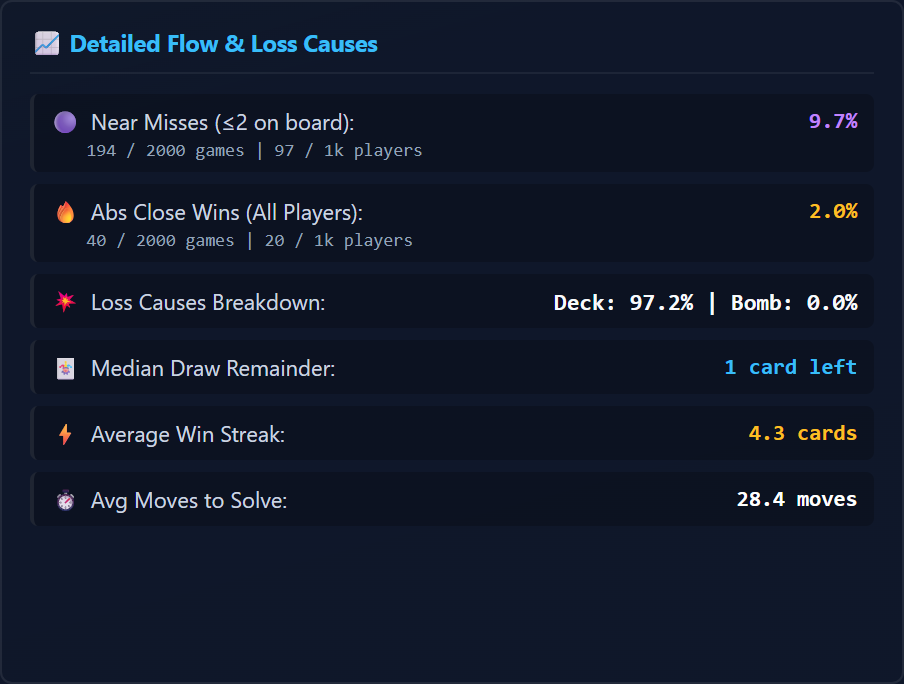
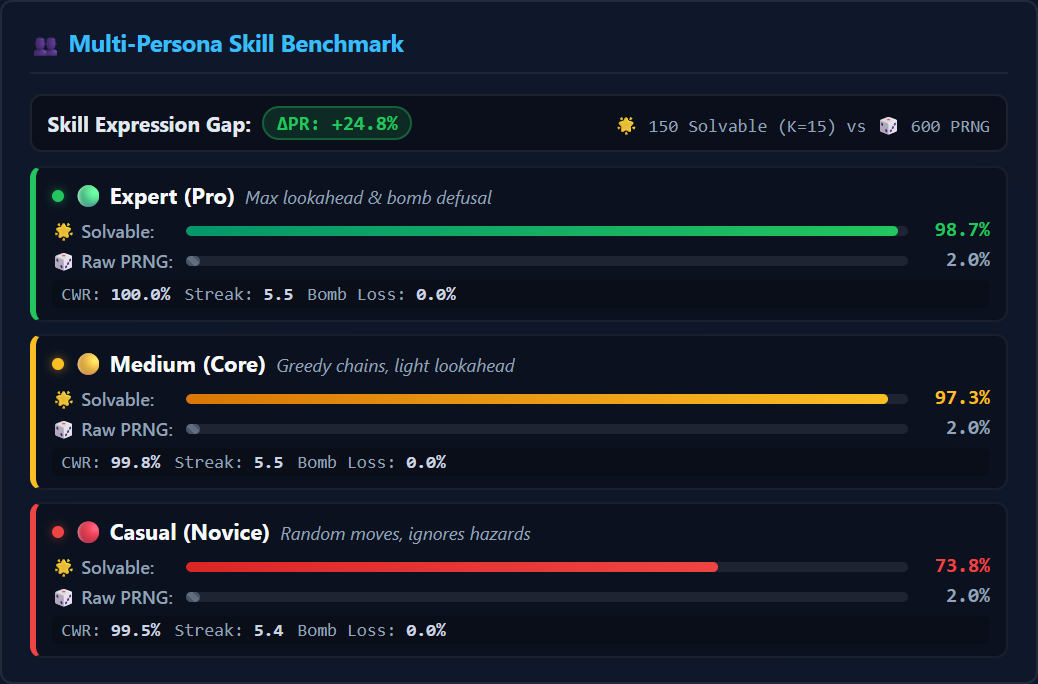
docs: fix screenshots, add detailed flow breakdown and accurate manual simulation drawer

diff --git a/README.md b/README.md
@@ -6,19 +6,13 @@
 
 ---
 
-## ⚡ Quick Start: How to Open the Tuner
+## ⚡ Quick Start: Switching to the Difficulty Tuner
 
-When you open the web application, it starts in the **🎮 Playable Prototype** view. 
+The web application opens by default in the **🎮 Playable Prototype** view.
 
-To access the balancing suite, click the **📊 Difficulty Tuner & Monte Carlo** tab in the top navigation bar:
+To switch to the balancing and simulation workbench, click the **📊 Difficulty Tuner & Monte Carlo** tab in the top navigation bar:
 
-```
-+-------------------------------------------------------------------------------------------------------+
-| SOFTGAMES  Operation Close Win   [ 🎮 Playable Prototype ] [ 📊 Difficulty Tuner & Monte Carlo ] <-- CLICK HERE
-+-------------------------------------------------------------------------------------------------------+
-```
-
-![Top Navigation & Prototype Overview](./docs/images/01_game_prototype_overview.png)
+![Top Navigation Tab Switcher](./docs/images/01_top_nav_switcher.png)
 
 ---
 
@@ -26,13 +20,12 @@ To access the balancing suite, click the **📊 Difficulty Tuner & Monte Carlo**
 
 The Difficulty Tuner runs large-scale Monte Carlo simulations ($N=2,000$ runs per level in background Web Workers) to auto-calibrate deck sizes for a **70% Close Win Rate (CWR)**, benchmark player personas, and isolate winnable **Golden Seeds**.
 
-![Difficulty Tuner Overview](./docs/images/04_difficulty_tuner_full.png)
+![Difficulty Tuner Overview](./docs/images/03_difficulty_tuner_overview.png)
 
 ### 1.1 Top Controls Bar
 
-At the top of the Tuner card:
 - **Level Select Dropdown:** Switch between presets (`level_25`, `level_31`, `level_43`, `level_54`) or uploaded custom levels.
-- **📂 Upload JSON:** Load custom level JSON files. They are automatically parsed and saved to browser `localStorage`.
+- **📂 Upload JSON:** Load custom level JSON files directly from your disk (saved to browser `localStorage`).
 - **🚀 Run Analysis:** Runs the full $N=2,000$ simulation batch to recalculate all stats.
 - **🎮 Apply & Play:** Applies the calibrated deck size and switches directly to the playable game.
 - **💾 Download JSON:** Exports the calibrated level file with the new deck size and mined golden seeds.
@@ -41,7 +34,7 @@ At the top of the Tuner card:
 
 ### 1.2 Hero KPI Ribbon (Executive Metrics)
 
-![Hero KPIs](./docs/images/05_hero_kpis_ribbon.png)
+![Hero KPIs](./docs/images/04_hero_kpis_ribbon.png)
 
 | Metric | Meaning & Target |
 | :--- | :--- |
@@ -54,15 +47,33 @@ At the top of the Tuner card:
 
 ### 1.3 Deep Dive Panels
 
-![Panels](./docs/images/06_dual_donut_charts.png)
-
 #### A. Visual Cohort Funnels (Dual Donut Charts)
+
+![Dual Donut Funnels](./docs/images/05_dual_donut_funnels.png)
+
 - **Random Deals Funnel (Left):** Shows total conversion of random PRNG deals into Close Wins (🟢), Standard Wins (🔵), and Losses (🔴).
 - **Golden Seeds Funnel (Right):** Shows the conversion of curated winnable seeds, proving 100% completion without unwinnable card starvation.
 
-#### B. Multi-Persona Benchmark (Skill Expression)
+---
 
-![Multi-Persona](./docs/images/07_multi_persona_benchmark.png)
+#### B. Detailed Flow & Loss Causes
+
+![Detailed Flow & Loss Causes](./docs/images/06_detailed_flow_and_losses.png)
+
+| Metric | Meaning |
+| :--- | :--- |
+| **Near Misses ($\le 2$ on board)** | Percentage of losses where only 1–2 cards remained on the board. This is the prime driver for high-intent retries and extra card purchases. |
+| **Abs Close Wins (All Players)** | Absolute close win percentage across the entire player population. |
+| **Loss Causes Breakdown** | Shows whether losses occurred due to running out of draw cards (`Deck %`) or failing a hazard (`Bomb %`). |
+| **Median Draw Remainder** | Median number of unused cards in the draw pile upon winning (Target: $\le 2$ cards). |
+| **Average Win Streak** | Average number of consecutive tableau cards cleared without drawing from the stock. |
+| **Avg Moves to Solve** | Average number of card operations required to complete the board. |
+
+---
+
+#### C. Multi-Persona Skill Benchmark (Skill Expression)
+
+![Multi-Persona Benchmark](./docs/images/07_multi_persona_benchmark.png)
 
 Measures win rates across 3 simulated player skill levels ($6 \times 600$ runs):
 - 🟢 **Pro / Expert ($\epsilon = 0\%$ error):** Optimal lookahead and modifier prioritization.
@@ -74,13 +85,13 @@ Measures win rates across 3 simulated player skill levels ($6 \times 600$ runs):
 
 ### 1.4 Manual Simulation & Custom Deck Testing Drawer
 
-Below the main card, click **`▼ Expand Manual Testing`** to open the interactive custom deck sandbox:
+Click **`▼ Expand Manual Testing`** below the main card to open the custom deck sandbox:
 
-![Manual Workbench](./docs/images/08_manual_simulation_workbench.png)
+![Manual Simulation Drawer](./docs/images/08_manual_simulation_drawer.png)
 
 1. **Adjust Hand Size:** Use the **`[ − ]`** and **`[ + ]`** stepper buttons or type a number directly into the deck input.
 2. **Click `▶ Run Simulation`:** Runs a full Monte Carlo evaluation on your custom hand size.
-3. **Compare Results:** The card displays complete 1:1 parity metrics (Hero KPIs, Donut charts, Personas, Flow breakdown) for your custom hand size.
+3. **Compare Results:** Displays full 1:1 parity metrics (Hero KPIs, Donut charts, Personas, Flow breakdown) for your custom hand size.
 4. **Click `🎮 Apply & Play Custom Deck`:** Loads this custom deck size directly into the playable game canvas.
 5. **Click `💾 Export JSON`:** Saves the custom level JSON to your disk.
 
@@ -88,9 +99,9 @@ Below the main card, click **`▼ Expand Manual Testing`** to open the interacti
 
 ## 2. Module 1: Playable Prototype (Game Verification)
 
-To test the tactile game feel and verify card interactions manually, switch back to **🎮 Playable Prototype**:
+To test the tactile game feel and verify card interactions manually, switch to **🎮 Playable Prototype**:
 
-![Playable Prototype](./docs/images/03_tripeaks_board_canvas.png)
+![Playable Prototype](./docs/images/02_gameplay_canvas.png)
 
 > **Gameplay Summary:** Tap face-up tableau cards with rank $\pm 1$ from the active waste card (with $K \leftrightarrow A$ wrap) to clear the board. Modifiers add tactical objectives: 💣 **Bombs** must be defused before their turn timer hits 0, 🔑 **Keys** unlock 🔒 **Locks**, and ⚡ **Zap cards** clear 2 extra blocking cards. Check **`☑ Keep seed`** to replay the exact same deal, or toggle **`🌟 Golden Seed`** to test curated winnable close-win layouts.
 

diff --git a/USER_GUIDE.md b/USER_GUIDE.md
@@ -6,19 +6,13 @@
 
 ---
 
-## ⚡ Quick Start: How to Open the Tuner
+## ⚡ Quick Start: Switching to the Difficulty Tuner
 
-When you open the web application, it starts in the **🎮 Playable Prototype** view. 
+The web application opens by default in the **🎮 Playable Prototype** view.
 
-To access the balancing suite, click the **📊 Difficulty Tuner & Monte Carlo** tab in the top navigation bar:
+To switch to the balancing and simulation workbench, click the **📊 Difficulty Tuner & Monte Carlo** tab in the top navigation bar:
 
-```
-+-------------------------------------------------------------------------------------------------------+
-| SOFTGAMES  Operation Close Win   [ 🎮 Playable Prototype ] [ 📊 Difficulty Tuner & Monte Carlo ] <-- CLICK HERE
-+-------------------------------------------------------------------------------------------------------+
-```
-
-![Top Navigation & Prototype Overview](./docs/images/01_game_prototype_overview.png)
+![Top Navigation Tab Switcher](./docs/images/01_top_nav_switcher.png)
 
 ---
 
@@ -26,13 +20,12 @@ To access the balancing suite, click the **📊 Difficulty Tuner & Monte Carlo**
 
 The Difficulty Tuner runs large-scale Monte Carlo simulations ($N=2,000$ runs per level in background Web Workers) to auto-calibrate deck sizes for a **70% Close Win Rate (CWR)**, benchmark player personas, and isolate winnable **Golden Seeds**.
 
-![Difficulty Tuner Overview](./docs/images/04_difficulty_tuner_full.png)
+![Difficulty Tuner Overview](./docs/images/03_difficulty_tuner_overview.png)
 
 ### 1.1 Top Controls Bar
 
-At the top of the Tuner card:
 - **Level Select Dropdown:** Switch between presets (`level_25`, `level_31`, `level_43`, `level_54`) or uploaded custom levels.
-- **📂 Upload JSON:** Load custom level JSON files. They are automatically parsed and saved to browser `localStorage`.
+- **📂 Upload JSON:** Load custom level JSON files directly from your disk (saved to browser `localStorage`).
 - **🚀 Run Analysis:** Runs the full $N=2,000$ simulation batch to recalculate all stats.
 - **🎮 Apply & Play:** Applies the calibrated deck size and switches directly to the playable game.
 - **💾 Download JSON:** Exports the calibrated level file with the new deck size and mined golden seeds.
@@ -41,7 +34,7 @@ At the top of the Tuner card:
 
 ### 1.2 Hero KPI Ribbon (Executive Metrics)
 
-![Hero KPIs](./docs/images/05_hero_kpis_ribbon.png)
+![Hero KPIs](./docs/images/04_hero_kpis_ribbon.png)
 
 | Metric | Meaning & Target |
 | :--- | :--- |
@@ -54,15 +47,33 @@ At the top of the Tuner card:
 
 ### 1.3 Deep Dive Panels
 
-![Panels](./docs/images/06_dual_donut_charts.png)
-
 #### A. Visual Cohort Funnels (Dual Donut Charts)
+
+![Dual Donut Funnels](./docs/images/05_dual_donut_funnels.png)
+
 - **Random Deals Funnel (Left):** Shows total conversion of random PRNG deals into Close Wins (🟢), Standard Wins (🔵), and Losses (🔴).
 - **Golden Seeds Funnel (Right):** Shows the conversion of curated winnable seeds, proving 100% completion without unwinnable card starvation.
 
-#### B. Multi-Persona Benchmark (Skill Expression)
+---
 
-![Multi-Persona](./docs/images/07_multi_persona_benchmark.png)
+#### B. Detailed Flow & Loss Causes
+
+![Detailed Flow & Loss Causes](./docs/images/06_detailed_flow_and_losses.png)
+
+| Metric | Meaning |
+| :--- | :--- |
+| **Near Misses ($\le 2$ on board)** | Percentage of losses where only 1–2 cards remained on the board. This is the prime driver for high-intent retries and extra card purchases. |
+| **Abs Close Wins (All Players)** | Absolute close win percentage across the entire player population. |
+| **Loss Causes Breakdown** | Shows whether losses occurred due to running out of draw cards (`Deck %`) or failing a hazard (`Bomb %`). |
+| **Median Draw Remainder** | Median number of unused cards in the draw pile upon winning (Target: $\le 2$ cards). |
+| **Average Win Streak** | Average number of consecutive tableau cards cleared without drawing from the stock. |
+| **Avg Moves to Solve** | Average number of card operations required to complete the board. |
+
+---
+
+#### C. Multi-Persona Skill Benchmark (Skill Expression)
+
+![Multi-Persona Benchmark](./docs/images/07_multi_persona_benchmark.png)
 
 Measures win rates across 3 simulated player skill levels ($6 \times 600$ runs):
 - 🟢 **Pro / Expert ($\epsilon = 0\%$ error):** Optimal lookahead and modifier prioritization.
@@ -74,13 +85,13 @@ Measures win rates across 3 simulated player skill levels ($6 \times 600$ runs):
 
 ### 1.4 Manual Simulation & Custom Deck Testing Drawer
 
-Below the main card, click **`▼ Expand Manual Testing`** to open the interactive custom deck sandbox:
+Click **`▼ Expand Manual Testing`** below the main card to open the custom deck sandbox:
 
-![Manual Workbench](./docs/images/08_manual_simulation_workbench.png)
+![Manual Simulation Drawer](./docs/images/08_manual_simulation_drawer.png)
 
 1. **Adjust Hand Size:** Use the **`[ − ]`** and **`[ + ]`** stepper buttons or type a number directly into the deck input.
 2. **Click `▶ Run Simulation`:** Runs a full Monte Carlo evaluation on your custom hand size.
-3. **Compare Results:** The card displays complete 1:1 parity metrics (Hero KPIs, Donut charts, Personas, Flow breakdown) for your custom hand size.
+3. **Compare Results:** Displays full 1:1 parity metrics (Hero KPIs, Donut charts, Personas, Flow breakdown) for your custom hand size.
 4. **Click `🎮 Apply & Play Custom Deck`:** Loads this custom deck size directly into the playable game canvas.
 5. **Click `💾 Export JSON`:** Saves the custom level JSON to your disk.
 
@@ -88,9 +99,9 @@ Below the main card, click **`▼ Expand Manual Testing`** to open the interacti
 
 ## 2. Module 1: Playable Prototype (Game Verification)
 
-To test the tactile game feel and verify card interactions manually, switch back to **🎮 Playable Prototype**:
+To test the tactile game feel and verify card interactions manually, switch to **🎮 Playable Prototype**:
 
-![Playable Prototype](./docs/images/03_tripeaks_board_canvas.png)
+![Playable Prototype](./docs/images/02_gameplay_canvas.png)
 
 > **Gameplay Summary:** Tap face-up tableau cards with rank $\pm 1$ from the active waste card (with $K \leftrightarrow A$ wrap) to clear the board. Modifiers add tactical objectives: 💣 **Bombs** must be defused before their turn timer hits 0, 🔑 **Keys** unlock 🔒 **Locks**, and ⚡ **Zap cards** clear 2 extra blocking cards. Check **`☑ Keep seed`** to replay the exact same deal, or toggle **`🌟 Golden Seed`** to test curated winnable close-win layouts.
 
